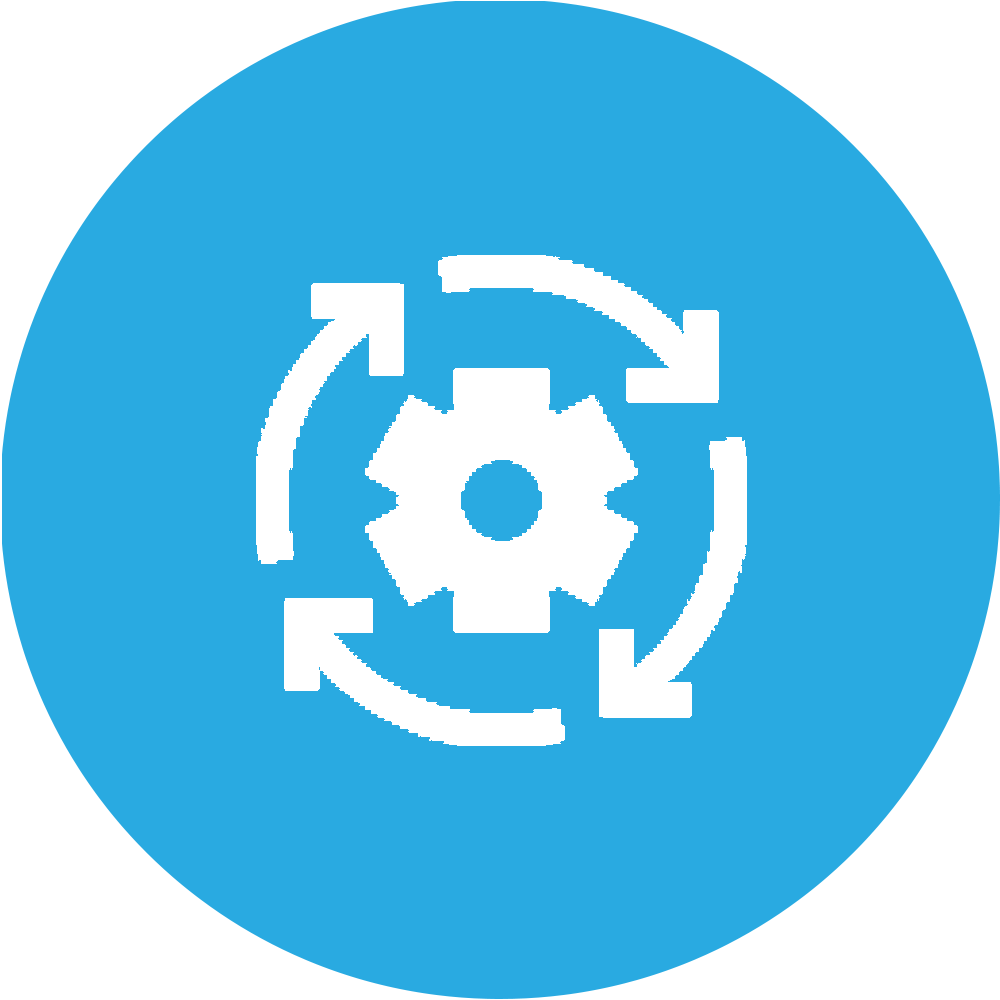
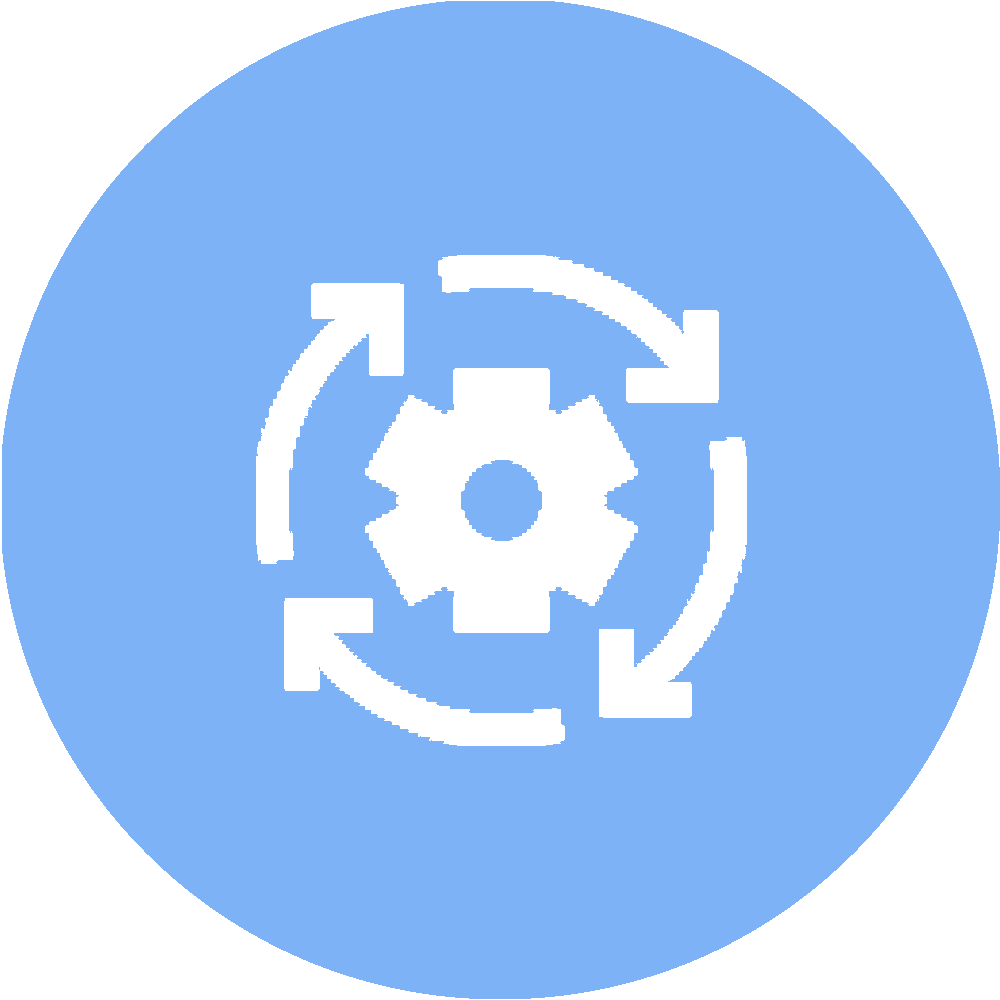
[ADD]Messenger

diff --git a/front/src/components/NoticeMessenger/index.js b/front/src/components/NoticeMessenger/index.js
@@ -1,0 +1,106 @@
+//External Imports
+import React from "react";
+import { useState } from "react";
+import { gql, useMutation, useLazyQuery } from "@apollo/client";
+
+//Local Imports
+import { userInfoStoreObj } from "../../store/userInfoStore";
+
+//Static Imports
+import "./index.css"
+import messengerIcon from "../../assets/img/MessengerIcon.png"
+import { timeStoreObj } from "../../store/timeStore";
+
+function MessengerBar () {
+
+    const [content, setContent] = useState('');
+
+    return(
+        <div className="MessengerBarForm">
+            <input className="MessengerBar" placeholder="UserName : Message Content" value={content} onChange={(e) => {setContent(e.target.value)}} onKeyDown={(e) => {if(e.keyCode === 13){document.getElementById('MessengerButton').click()}}}></input>
+            <SendMessengerButton content={content} />
+        </div>
+    )
+}
+
+function GetReceiverAndContent( str ) {
+    const divString = str?.split(':');
+    const messageInfo = {
+        receiver : "",
+        content: "",
+    }
+    if(divString.length >= 2){
+        messageInfo.receiver = divString[0].trim();
+        messageInfo.content = str.substring(divString[0].length + 1).trim();
+    }
+
+    return messageInfo;
+}
+
+const getUserbyIDQuery = gql`
+    query GetUserbyID($userID : String){
+        getUser(userID : $userID){
+            userID
+        }
+    }
+`
+
+const sendMessageQuery = gql`
+    mutation SendMessage($project: String, $title: String, $from: String, $to: String, $content: String, $time: String){
+        createNotice(project: $project, title: $title, from: $from, to: $to, content: $content, time: $time){
+            title
+            content
+        }
+    }
+`
+
+function SendMessengerButton(props){
+    const messageObject = GetReceiverAndContent(props.content);
+    const [messageObj, setMessageObj] = useState({})
+    
+    const [createNotice] = useMutation(sendMessageQuery,{
+        variables: {
+            project: "Messenger",
+            title: `Message From ${userInfoStoreObj.curUser.id}`,
+            from: userInfoStoreObj.curUser.id,
+            to: messageObj.receiver,
+            content: messageObj.content,
+            time: timeStoreObj.GetCurrentTimeString()
+        }
+    })
+
+    const [checkReceiver] = useLazyQuery(getUserbyIDQuery ,{
+        variables: {
+            userID: messageObj.receiver
+        },
+        fetchPolicy:'network-only',
+        onCompleted: (data) => {
+            console.log(messageObj);
+            const receiverUser = data?.getUser?.userID;
+            console.log(receiverUser);
+            let warning = "";
+            if (receiverUser === null || receiverUser === undefined){
+                warning = `Invalid Receiver : ${messageObj?.receiver}`
+                alert(warning);
+            }
+            else if(receiverUser !== null && receiverUser !== undefined){
+                createNotice();
+                alert(`Message delivered to ${messageObj?.receiver}.`)
+            }
+        }
+    });
+
+
+    return(
+        <button id="MessengerButton" className="Search" onClick={
+            () => {
+                setMessageObj(messageObject);
+                checkReceiver();
+            }
+        }>
+                <img className="SearchImg" src={messengerIcon} alt="messengerIcon" />
+        </button>
+    )
+}
+
+export { MessengerBar };

diff --git a/front/src/components/Reservation/index.js b/front/src/components/Reservation/index.js
@@ -117,16 +117,17 @@ function CreateScheduleButton(props) {
     const scheduleStart = timeStoreObj.selectedStartTime;
     const scheduleEnd = timeStoreObj.selectedEndTime;
 
-    const dateString = `${scheduleStart.getFullYear().toString().padStart(2,'0')}.${(scheduleStart.getMonth() + 1).toString().padStart(2,'0')}.${scheduleStart.getDate().toString().padStart(2,'0')}`;
+    const startDateString = `${scheduleStart.getFullYear().toString().padStart(2,'0')}.${(scheduleStart.getMonth() + 1).toString().padStart(2,'0')}.${scheduleStart.getDate().toString().padStart(2,'0')}`;
     const startTimeString = `${scheduleStart.getHours().toString().padStart(2,'0')}:${scheduleStart.getMinutes().toString().padStart(2,'0')}`;
+    const endDateString = `${scheduleEnd.getFullYear().toString().padStart(2,'0')}.${(scheduleEnd.getMonth() + 1).toString().padStart(2,'0')}.${scheduleEnd.getDate().toString().padStart(2,'0')}`;
     const endTimeString = `${scheduleEnd.getHours().toString().padStart(2,'0')}:${scheduleEnd.getMinutes().toString().padStart(2,'0')}`;
     
     const [CreateSchedule] = useMutation(createScheduleQuery,{
         variables: {
             project: props.project,
             createdTime: timeStoreObj.GetCurrentTimeString(),
-            startTime: `${dateString} ${startTimeString}`,
-            endTime: `${dateString} ${endTimeString}`,
+            startTime: `${startDateString} ${startTimeString}`,
+            endTime: `${endDateString} ${endTimeString}`,
             proposer: userInfoStoreObj.curUser.id,
             content: props.description,
             member: SplitMemberString(props.member)

diff --git a/front/src/components/Notice/index.js b/front/src/components/Notice/index.js
@@ -60,6 +60,7 @@ const getUserNoticeQuery = gql`
     query GetUserNotice($userID: String){
         getUserNotice(userID: $userID){
             _id
+            project
             title
             from
             to
@@ -89,11 +90,12 @@ function NoticeMapper(props) {
     });
 
     return(
-        data?.getUserNotice.map(({_id, title, from, to, content, time}) => (
+        data?.getUserNotice.map(({_id, project, title, from, to, content, time}) => (
             <NoticeBar
                 id={_id}
                 key={_id}
                 _id={_id}
+                project={project}
                 title={title}
                 from={from}
                 to={to}
@@ -130,7 +132,7 @@ function NoticeBar(props) {
     return(
         <div className={exist? (visible? "NoticeBar" : "NoticeBarInvisible") : "NoticeBarDeleted"}>
             <div className="NoticeThumbnail">
-                <img className="NoticeImg" src={process.env.PUBLIC_URL + `/thumbnail/${props.title}.png`} onError={handleImgError} alt="NoticeImg" />
+                <img className="NoticeImg" src={process.env.PUBLIC_URL + `/thumbnail/${props.project}.png`} onError={handleImgError} alt="NoticeImg" />
             </div>
             <div className="NoticeContent">
                 <div><strong>{`${props.title} - ${props.time}`}</strong></div>

diff --git a/back/modules/graphql/resolvers.js b/back/modules/graphql/resolvers.js
@@ -161,6 +161,17 @@ const resolvers = {
 
             return newProject.save();
         },
+        createNotice: async(parent, args, contextValue, info) => {
+            const notice = new Notice({
+                project: args.project,
+                title: args.title,
+                from: args.from,
+                to: args.to,
+                content: args.content,
+                time: args.time,
+            })
+            notice.save();
+        },
         deleteNotice: async(parent, args, contextValue, info) => {
             await Notice.deleteOne({_id: args._id});
         },
@@ -181,7 +192,7 @@ const resolvers = {
                     title: args.project,
                     from: args.proposer,
                     to: args.member[i],
-                    content: `${args.proposer} make new schedule "${args.content}" on ${args.startTime} - ${args.endTime.substr(11,5)}`,
+                    content: `${args.proposer} make new schedule "${args.content}" on ${args.startTime.substr(6,10)} - ${args.endTime.substr(6,10)}`,
                     time: args.createdTime,
                 })
                 notice.save();

diff --git a/front/src/components/ViewAreaScreenManager/index.js b/front/src/components/ViewAreaScreenManager/index.js
@@ -9,6 +9,7 @@ import { WorksScreen } from "../../screens/WorksScreen/index";
 import { PostReadScreen } from "../../screens/PostReadScreen";
 import { MyPageScreen } from "../../screens/MyPageScreen";
 import { Clock } from "../Clock";
+import { MessengerBar } from "../NoticeMessenger";
 
 //Static Imports
 import GithubIcon from "../../assets/img/GithubW.png";
@@ -22,6 +23,7 @@ const ViewAreaScreenManager = observer(({store}) => {
                 <Clock />
                 This page will provide<br/><br/>
                 Our Hot Topics, Recent Tools, etc.<br /><br /><br />
+                <MessengerBar />
                 <div style={{fontSize:10}}>Copyright © 2023 Philip Sung. All right reserved.</div>
                 <br /><br />
                 <a href={"http://github.com/Philip-sung"}><img src={GithubIcon} width={30} alt="Github"></img></a> &nbsp;

diff --git a/front/src/components/ProjectOutline/index.js b/front/src/components/ProjectOutline/index.js
@@ -223,7 +223,7 @@ function ScheduleRow (props){
     return(
         <TransitionObject>
             <div className="ProjectScheduleRow">
-                <div style={{fontSize:"115%"}}><strong>{` · [${props.startTime}-${props.endTime.substr(11,5)}], ${props.proposer} : `}</strong></div>
+                <div style={{fontSize:"115%"}}><strong>{` · [${props.startTime.substr(6,10)}-${props.endTime.substr(6,10)}], ${props.proposer} : `}</strong></div>
                 <div><div className="ScheduleRowHeader">Content</div>{`    ${props.content}`}</div>
                 <div><div className="ScheduleRowHeader">Member</div>{`     ${props.member}`}</div>
                 <div><div className="ScheduleRowHeader">Arranged</div>{`   ${props.createdTime}`}</div>

diff --git a/front/src/components/SearchBar/index.js b/front/src/components/SearchBar/index.js
@@ -10,7 +10,7 @@ import { searchStoreObj } from "../../store/SearchStore";
 
 //Static Imports
 import "./index.css"
-import image1 from "../../assets/img/SearchIcon.png"
+import searchIcon from "../../assets/img/SearchIcon.png"
 
 function SearchBar () {
 
@@ -64,7 +64,7 @@ function GetPostsbyTitleButton(props){
                 searchStoreObj.InitializeOffsetLimit();
             }
         }>
-                <img className="SearchImg" src={image1} alt="SearchImg" />
+                <img className="SearchImg" src={searchIcon} alt="SearchImg" />
         </button>
     )
 }

diff --git a/front/src/components/NoticeMessenger/index.css b/front/src/components/NoticeMessenger/index.css
@@ -1,0 +1,24 @@
+.MessengerBarForm {
+    margin-top: 0;
+    margin-bottom: 1vh;
+    display: flex;
+    flex-direction: row;
+    justify-content: center;
+}
+
+.MessengerBar {
+    min-height: 44px;
+    width: 90%;
+    max-width: 500px;
+    min-width: none;
+
+    border-radius: 44px;
+    border-style: none;
+
+    padding-left: 22px;
+    font-size: 1.8vh;
+}
+
+.MessengerBar::placeholder{
+    color: var(--gray);
+}

diff --git a/back/modules/graphql/graphqlSchema.js b/back/modules/graphql/graphqlSchema.js
@@ -114,6 +114,14 @@ const typeDefs = gql`
             description: String,
             reference: String,
         ) : Project,
+        createNotice(
+            project: String,
+            title: String,
+            from: String,
+            to: String,
+            content: String,
+            time: String,
+        ) : Notice,
         deleteNotice(
             _id: ID,
         ) : Notice,

diff --git a/front/src/styles/colorTheme.css b/front/src/styles/colorTheme.css
@@ -6,7 +6,7 @@
     --text: #fff;
     --gray: #ccc;
     --divide: #ccc;
-    --highlight: rgb(86, 177, 237);
+    --highlight: #7db2f6;
     --transparentBlack: rgba(0,0,0,0.6);
     --transparentWhite: rgba(255,255,255,0.1);
     --transparent: rgba(0,0,0,0);

diff --git a/front/src/components/Notice/index.css b/front/src/components/Notice/index.css
@@ -109,7 +109,7 @@
     object-fit: cover;
     width:100%;
     height:100%;
-    border-radius: 10px;
+    border-radius: 0px;
 }
 
 .NoticeRemover {

diff --git a/front/src/components/Clock/index.css b/front/src/components/Clock/index.css
@@ -5,7 +5,7 @@
     
     flex-direction: row;
     justify-content: center;
-    font-size: 130px;
+    font-size: 90px;
 }
 
 .TextBox {
